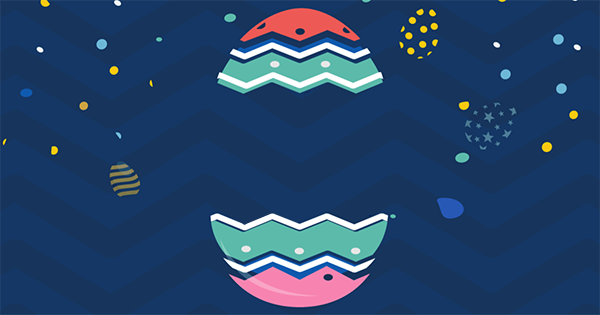
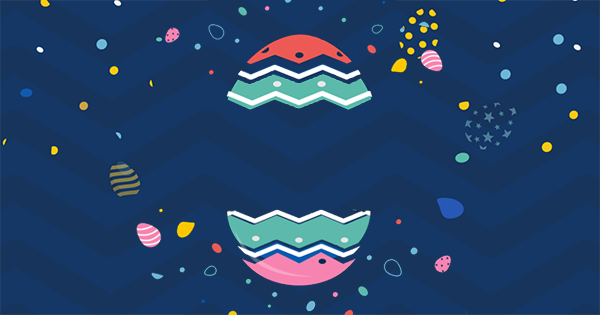
Fixed more issues!

diff --git a/skin.js b/skin.js
@@ -1,7 +1,7 @@
 // Garden Gnome Software - Skin
 // Pano2VR 6.1.8/17956
 // Filename: Waterfront_Easter.ggsk
-// Generated 2021-03-22T10:46:26
+// Generated 2021-03-22T11:36:06
 
 function pano2vrSkin(player,base) {
 	player.addVariable('opt_hotspot_preview', 2, true);
@@ -4842,7 +4842,7 @@ function pano2vrSkin(player,base) {
 				me._eggscape.style[domTransition]='left 0s, top 0s';
 				if (me._eggscape.ggCurrentLogicStatePosition == 0) {
 					this.ggDx = 0;
-					me._eggscape.style.top='20%';
+					me._eggscape.style.top='10%';
 					me._eggscape.ggUpdatePosition(true);
 				}
 				else {
@@ -6019,7 +6019,7 @@ function pano2vrSkin(player,base) {
 		el.ggDx=0;
 		el.ggDy=0;
 		el.ggParameter={ rx:0,ry:0,a:0,sx:1,sy:1 };
-		el.ggVisible=true;
+		el.ggVisible=false;
 		el.className="ggskin ggskin_rectangle ";
 		el.ggType='rectangle';
 		hs ='';
@@ -6029,7 +6029,7 @@ function pano2vrSkin(player,base) {
 		hs+='left : -10000px;';
 		hs+='position : absolute;';
 		hs+='top : -10000px;';
-		hs+='visibility : inherit;';
+		hs+='visibility : hidden;';
 		hs+='width : 100%;';
 		hs+='pointer-events:auto;';
 		el.setAttribute('style',hs);
@@ -6127,10 +6127,10 @@ function pano2vrSkin(player,base) {
 		hs ='';
 		hs+='border : 0px solid #000000;';
 		hs+='cursor : default;';
-		hs+='height : 80px;';
+		hs+='height : 100%;';
 		hs+='left : -10000px;';
 		hs+='position : absolute;';
-		hs+='top : 100%;';
+		hs+='top : 0%;';
 		hs+='visibility : inherit;';
 		hs+='width : 100%;';
 		hs+='pointer-events:auto;';
@@ -6603,7 +6603,7 @@ function pano2vrSkin(player,base) {
 		hs+='width : 100%;';
 		hs+='pointer-events:auto;';
 		el.setAttribute('style',hs);
-		el.style[domTransform + 'Origin']='50% 50%';
+		el.style[domTransform + 'Origin']='50% 100%';
 		me._externaleaster.ggIsActive=function() {
 			if ((this.parentNode) && (this.parentNode.ggIsActive)) {
 				return this.parentNode.ggIsActive();
@@ -6654,16 +6654,15 @@ function pano2vrSkin(player,base) {
 		me._branding_mobile.appendChild(me._brand_top);
 		el=me._buttons_social0=document.createElement('div');
 		el.ggId="buttons_social";
-		el.ggDx=595;
 		el.ggParameter={ rx:0,ry:0,a:0,sx:1,sy:1 };
 		el.ggVisible=true;
 		el.className="ggskin ggskin_container ";
 		el.ggType='container';
 		hs ='';
-		hs+='bottom : 81px;';
+		hs+='bottom : 11%;';
 		hs+='height : 32px;';
-		hs+='left : -10000px;';
 		hs+='position : absolute;';
+		hs+='right : 1%;';
 		hs+='visibility : inherit;';
 		hs+='width : 64px;';
 		hs+='pointer-events:none;';
@@ -6682,17 +6681,6 @@ function pano2vrSkin(player,base) {
 			return player.getCurrentNode();
 		}
 		me._buttons_social0.ggUpdatePosition=function (useTransition) {
-			if (useTransition==='undefined') {
-				useTransition = false;
-			}
-			if (!useTransition) {
-				this.style[domTransition]='none';
-			}
-			if (this.parentNode) {
-				var pw=this.parentNode.clientWidth;
-				var w=this.offsetWidth;
-					this.style.left=(this.ggDx + pw/2 - w/2) + 'px';
-			}
 		}
 		el=me._button_twitter0=document.createElement('div');
 		els=me._button_twitter0__img=document.createElement('img');
@@ -6902,7 +6890,7 @@ function pano2vrSkin(player,base) {
 		hs+='height : 80%;';
 		hs+='left : 0px;';
 		hs+='position : absolute;';
-		hs+='top : 20%;';
+		hs+='top : 0%;';
 		hs+='visibility : inherit;';
 		hs+='width : 100%;';
 		hs+='pointer-events:auto;';
@@ -7457,7 +7445,7 @@ function pano2vrSkin(player,base) {
 		hs+='width : 100%;';
 		hs+='pointer-events:auto;';
 		el.setAttribute('style',hs);
-		el.style[domTransform + 'Origin']='50% 50%';
+		el.style[domTransform + 'Origin']='50% 0%';
 		me._easter.ggIsActive=function() {
 			if ((this.parentNode) && (this.parentNode.ggIsActive)) {
 				return this.parentNode.ggIsActive();
@@ -7501,7 +7489,7 @@ function pano2vrSkin(player,base) {
 			img.style.height='';
 			img.style.left='50%';
 			img.style.marginLeft='-' + currentWidth/2 + 'px';
-			img.style.bottom='0px';
+			img.style.top='0px';
 		}
 		me._sidebanner.appendChild(me._easter);
 		me._brand_side.appendChild(me._sidebanner);
@@ -7509,7 +7497,7 @@ function pano2vrSkin(player,base) {
 		el.ggId="Rectangle 1";
 		el.ggDx=0;
 		el.ggParameter={ rx:0,ry:0,a:0,sx:1,sy:1 };
-		el.ggVisible=true;
+		el.ggVisible=false;
 		el.className="ggskin ggskin_rectangle ";
 		el.ggType='rectangle';
 		hs ='';
@@ -7520,7 +7508,7 @@ function pano2vrSkin(player,base) {
 		hs+='left : -10000px;';
 		hs+='position : absolute;';
 		hs+='top : 0%;';
-		hs+='visibility : inherit;';
+		hs+='visibility : hidden;';
 		hs+='width : 100%;';
 		hs+='pointer-events:auto;';
 		el.setAttribute('style',hs);
@@ -14139,8 +14127,8 @@ pano.setVariableValue("random_ad", randomNumber+1)
 				me._sound_on_off.ggCurrentLogicStatePosition = newLogicStatePosition;
 				me._sound_on_off.style[domTransition]='right 0s, top 0s';
 				if (me._sound_on_off.ggCurrentLogicStatePosition == 0) {
-					me._sound_on_off.style.right='2%';
-					me._sound_on_off.style.top='2%';
+					me._sound_on_off.style.right='5%';
+					me._sound_on_off.style.top='11%';
 				}
 				else {
 					me._sound_on_off.style.right='12%';
@@ -16089,6 +16077,56 @@ pano.setVariableValue("random_ad", randomNumber+1)
 					this.style.top=(this.ggDy + ph/2 - h/2) + 'px';
 			}
 		}
+		el=me._rectangle_3=document.createElement('div');
+		el.ggId="Rectangle 3";
+		el.ggDx=0;
+		el.ggDy=0;
+		el.ggParameter={ rx:0,ry:0,a:0,sx:1,sy:1 };
+		el.ggVisible=true;
+		el.className="ggskin ggskin_rectangle ";
+		el.ggType='rectangle';
+		hs ='';
+		hs+='background : rgba(0,0,0,0.392157);';
+		hs+='border : 1px solid #000000;';
+		hs+='cursor : default;';
+		hs+='height : 300%;';
+		hs+='left : -10000px;';
+		hs+='position : absolute;';
+		hs+='top : -10000px;';
+		hs+='visibility : inherit;';
+		hs+='width : 300%;';
+		hs+='pointer-events:auto;';
+		el.setAttribute('style',hs);
+		el.style[domTransform + 'Origin']='50% 50%';
+		me._rectangle_3.ggIsActive=function() {
+			if ((this.parentNode) && (this.parentNode.ggIsActive)) {
+				return this.parentNode.ggIsActive();
+			}
+			return false;
+		}
+		el.ggElementNodeId=function() {
+			if ((this.parentNode) && (this.parentNode.ggElementNodeId)) {
+				return this.parentNode.ggElementNodeId();
+			}
+			return player.getCurrentNode();
+		}
+		me._rectangle_3.ggUpdatePosition=function (useTransition) {
+			if (useTransition==='undefined') {
+				useTransition = false;
+			}
+			if (!useTransition) {
+				this.style[domTransition]='none';
+			}
+			if (this.parentNode) {
+				var pw=this.parentNode.clientWidth;
+				var w=this.offsetWidth;
+					this.style.left=(this.ggDx + pw/2 - w/2) + 'px';
+				var ph=this.parentNode.clientHeight;
+				var h=this.offsetHeight;
+					this.style.top=(this.ggDy + ph/2 - h/2) + 'px';
+			}
+		}
+		me._itemfound.appendChild(me._rectangle_3);
 		el=me._informationbg_1=document.createElement('div');
 		el.ggId="informationbg_1";
 		el.ggParameter={ rx:0,ry:0,a:0,sx:1,sy:1 };
@@ -16190,10 +16228,17 @@ pano.setVariableValue("random_ad", randomNumber+1)
 			var aspectRatioDiv = me._external_6.clientWidth / me._external_6.clientHeight;
 			var aspectRatioImg = img.naturalWidth / img.naturalHeight;
 			var currentWidth,currentHeight;
-			currentHeight = parentHeight;
-			currentWidth = parentHeight * aspectRatioImg;
-			img.style.width='';
-			img.style.height=parentHeight + 'px';
+			if (aspectRatioDiv > aspectRatioImg) {
+				currentWidth = parentWidth;
+				currentHeight = parentWidth / aspectRatioImg;
+				img.style.width=parentWidth + 'px';
+				img.style.height='';
+			} else {
+				currentHeight = parentHeight;
+				currentWidth = parentHeight * aspectRatioImg;
+				img.style.width='';
+				img.style.height=parentHeight + 'px';
+			};
 			img.style.left='50%';
 			img.style.marginLeft='-' + currentWidth/2 + 'px';
 			img.style.top='50%';
@@ -16205,14 +16250,14 @@ pano.setVariableValue("random_ad", randomNumber+1)
 		el.className='ggskin ggskin_textdiv';
 		el.ggTextDiv=els;
 		el.ggId="info_text_body_1";
-		el.ggDx=-7;
+		el.ggDx=0;
 		el.ggParameter={ rx:0,ry:0,a:0,sx:1,sy:1 };
 		el.ggVisible=true;
 		el.className="ggskin ggskin_text info_body";
 		el.ggType='text';
 		hs ='';
-		hs+='bottom : 21px;';
-		hs+='height : 49.0741%;';
+		hs+='bottom : 0px;';
+		hs+='height : 49%;';
 		hs+='left : -10000px;';
 		hs+='position : absolute;';
 		hs+='visibility : inherit;';
@@ -16340,15 +16385,17 @@ pano.setVariableValue("random_ad", randomNumber+1)
 		el.className='ggskin ggskin_textdiv';
 		el.ggTextDiv=els;
 		el.ggId="info_title_1";
+		el.ggDx=0;
+		el.ggDy=-5;
 		el.ggParameter={ rx:0,ry:0,a:0,sx:1,sy:1 };
 		el.ggVisible=true;
 		el.className="ggskin ggskin_text info_title";
 		el.ggType='text';
 		hs ='';
-		hs+='height : 30px;';
-		hs+='left : 11px;';
+		hs+='height : 50px;';
+		hs+='left : -10000px;';
 		hs+='position : absolute;';
-		hs+='top : 15px;';
+		hs+='top : -10000px;';
 		hs+='visibility : inherit;';
 		hs+='width : 100%;';
 		hs+='pointer-events:auto;';
@@ -16361,17 +16408,17 @@ pano.setVariableValue("random_ad", randomNumber+1)
 		hs+='left: 0px;';
 		hs+='top:  0px;';
 		hs+='width: 100%;';
-		hs+='height: 30px;';
+		hs+='height: 50px;';
 		hs+='border: 0px solid #000000;';
 		hs+='color: rgba(255,255,255,1);';
-		hs+='font-size: 20px;';
+		hs+='font-size: 30px;';
 		hs+='font-weight: inherit;';
-		hs+='text-align: left;';
+		hs+='text-align: center;';
 		hs+='white-space: nowrap;';
 		hs+='padding: 0px 1px 0px 1px;';
 		hs+='overflow: hidden;';
 		els.setAttribute('style',hs);
-		els.innerHTML="Congratulations";
+		els.innerHTML="Congratulations !!";
 		el.appendChild(els);
 		me._info_title_1.ggIsActive=function() {
 			if ((this.parentNode) && (this.parentNode.ggIsActive)) {
@@ -16386,6 +16433,20 @@ pano.setVariableValue("random_ad", randomNumber+1)
 			return player.getCurrentNode();
 		}
 		me._info_title_1.ggUpdatePosition=function (useTransition) {
+			if (useTransition==='undefined') {
+				useTransition = false;
+			}
+			if (!useTransition) {
+				this.style[domTransition]='none';
+			}
+			if (this.parentNode) {
+				var pw=this.parentNode.clientWidth;
+				var w=this.offsetWidth;
+					this.style.left=(this.ggDx + pw/2 - w/2) + 'px';
+				var ph=this.parentNode.clientHeight;
+				var h=this.offsetHeight;
+					this.style.top=((this.ggDy * ph)/100.0 + ph/2 - h/2) + 'px';
+			}
 		}
 		me._itemfound.appendChild(me._info_title_1);
 		el=me._link_text_1=document.createElement('div');
@@ -17249,8 +17310,8 @@ pano.setVariableValue("random_ad", randomNumber+1)
 				me._playmedia.ggCurrentLogicStatePosition = newLogicStatePosition;
 				me._playmedia.style[domTransition]='right 0s, top 0s';
 				if (me._playmedia.ggCurrentLogicStatePosition == 0) {
-					me._playmedia.style.right='10%';
-					me._playmedia.style.top='2%';
+					me._playmedia.style.right='15%';
+					me._playmedia.style.top='11%';
 				}
 				else {
 					me._playmedia.style.right='18%';
